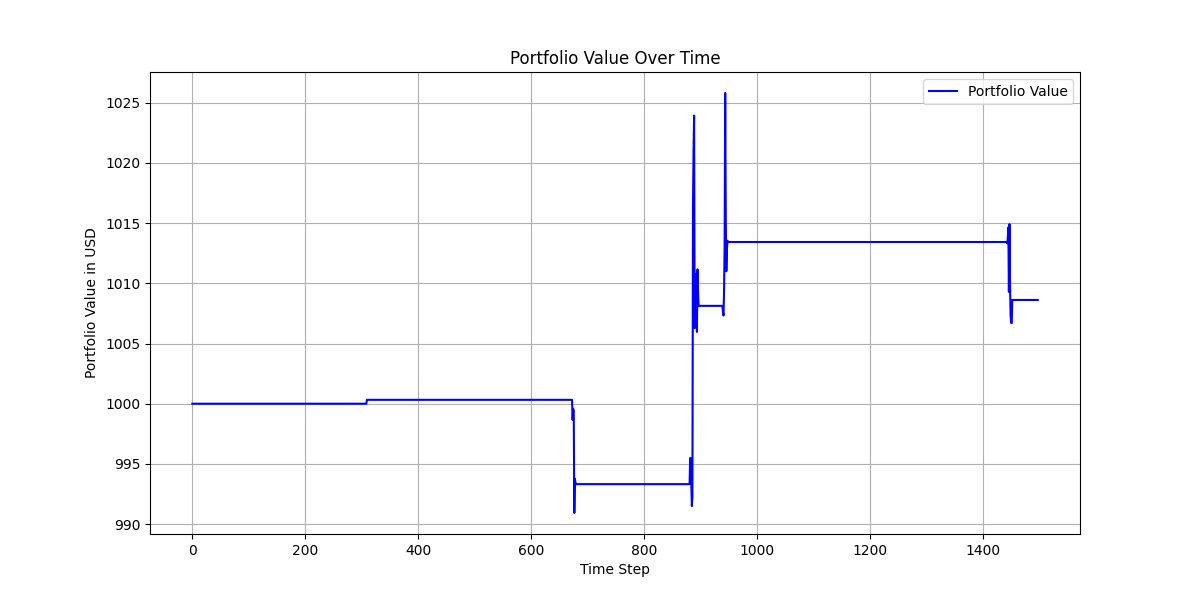
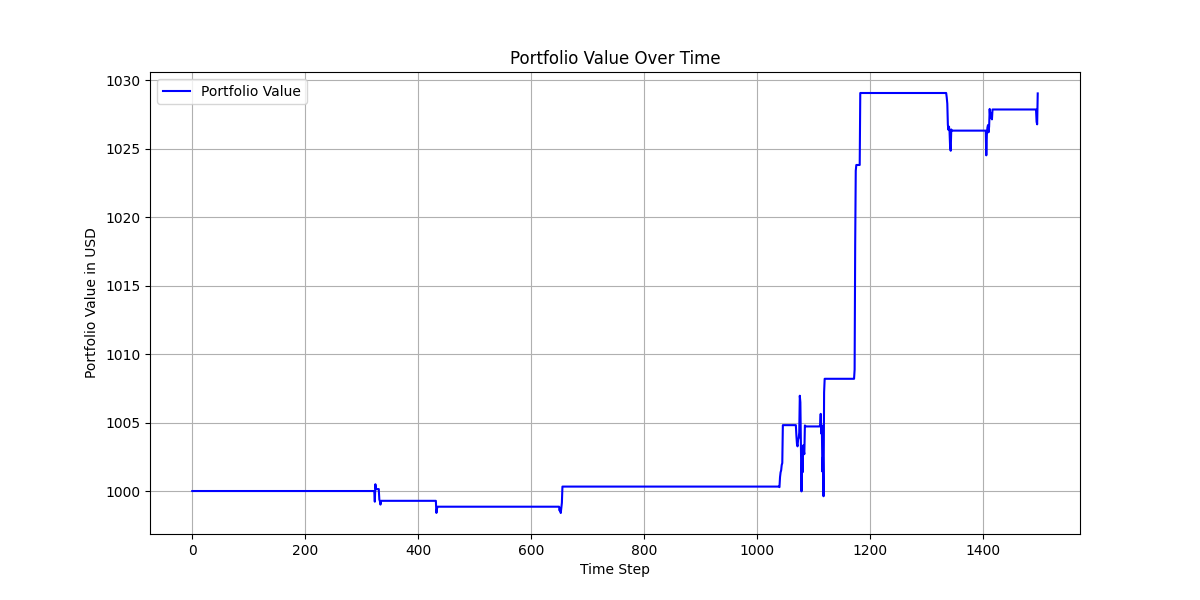
Refactor investment simulation code for improved readability and clarity

diff --git a/models/evaluate.py b/models/evaluate.py
@@ -13,31 +13,38 @@ def simulate_investment(model, dataloader, capital, shares_owned, scaler, buy_th
 
     bar = tqdm(enumerate(dataloader), total=len(dataloader))
     for step, (features, targets) in bar:
-        # Predicted change in normalized price
-        predicted_price = model(features).detach().numpy().flatten()
-        true_price = targets.numpy().flatten()
+        # Predicted and true prices in normalized form
+        predicted_price_norm = model(features).detach().numpy().flatten()
+        true_price_norm = targets.numpy().flatten()
 
-        # Dummy arrays for inverse transform
-        dummy_array_pred = np.zeros((1, 5))  # Create a dummy array with the same number of features used during training
-        dummy_array_pred[:, 3] = predicted_price  # Assign the predicted evolution to the corresponding position
-        
-        dummy_array_target = np.zeros((1, 6))
-        dummy_array_target[:, 3] = true_price
+        # Create dummy arrays to inverse transform
+        dummy_pred = np.zeros((1, 5))
+        dummy_pred[:, 3] = predicted_price_norm
+        dummy_target = np.zeros((1, 5))
+        dummy_target[:, 3] = true_price_norm
 
-        # Inverse transform to get original scale
-        predicted_price_original = scaler.inverse_transform(dummy_array_pred)[:, 3]  # Use only the interval_evolution column
-        true_price_original = scaler.inverse_transform(dummy_array_target)[:, 3]
+        # Inverse transform to get prices in original scale
+        predicted_price_original = scaler.inverse_transform(dummy_pred)[:, 3][0]
+        true_price_original = scaler.inverse_transform(dummy_target)[:, 3][0]
 
-        predicted_evolution = predicted_price_original[0] - current_price
+        # Current price in original scale
+        current_price_norm = features[:, -1, 3].numpy().flatten()[0]
+        dummy_price = np.zeros((1, 5))
+        dummy_price[:, 3] = current_price_norm
+        current_price = scaler.inverse_transform(dummy_price)[:, 3][0]
+
+        # Calculate price increase percentage
+        predicted_evolution = (predicted_price_original - current_price) / current_price
+        true_evolution = (true_price_original - current_price) / current_price
 
         # Simulate investment based on model prediction
-        if predicted_original >= buy_threshold and capital >= current_price:
+        if predicted_evolution >= buy_threshold and capital >= current_price:
             # Buy one share if the predicted change is positive and capital allows
             shares_owned += 1
             capital -= current_price
             # print(f"Bought 1 share at {current_price:.2f}, Capital: {capital:.2f}, Shares Owned: {shares_owned}, On step : {step}")
 
-        elif predicted_original <= sell_threshold and shares_owned > 0:
+        elif predicted_evolution <= sell_threshold and shares_owned > 0:
             # Sell one share if the predicted change is negative and shares are available
             shares_owned -= 1
             capital += current_price
@@ -47,9 +54,10 @@ def simulate_investment(model, dataloader, capital, shares_owned, scaler, buy_th
         portfolio_value = capital + shares_owned * current_price
         portfolio_values.append(portfolio_value)
 
-        true_evolutions.append(true_original)
-        predicted_evolutions.append(predicted_original)
+        true_evolutions.append(true_evolution)
+        predicted_evolutions.append(predicted_evolution)
         current_prices.append(current_price)
+
 
     print("Final Portfolio Value: {:.2f}".format(portfolio_values[-1]))
     print("Augmentation of the portfolio: {:.2%}".format((portfolio_values[-1] - initial_capital) / initial_capital))
